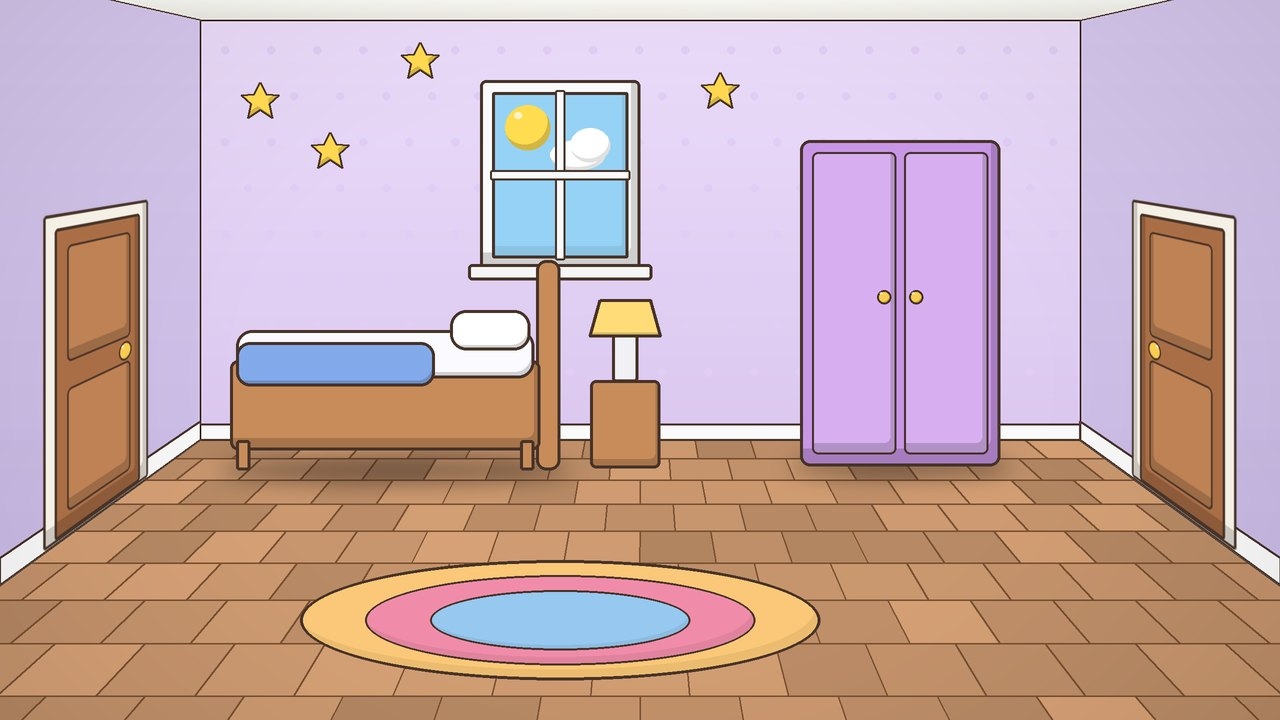
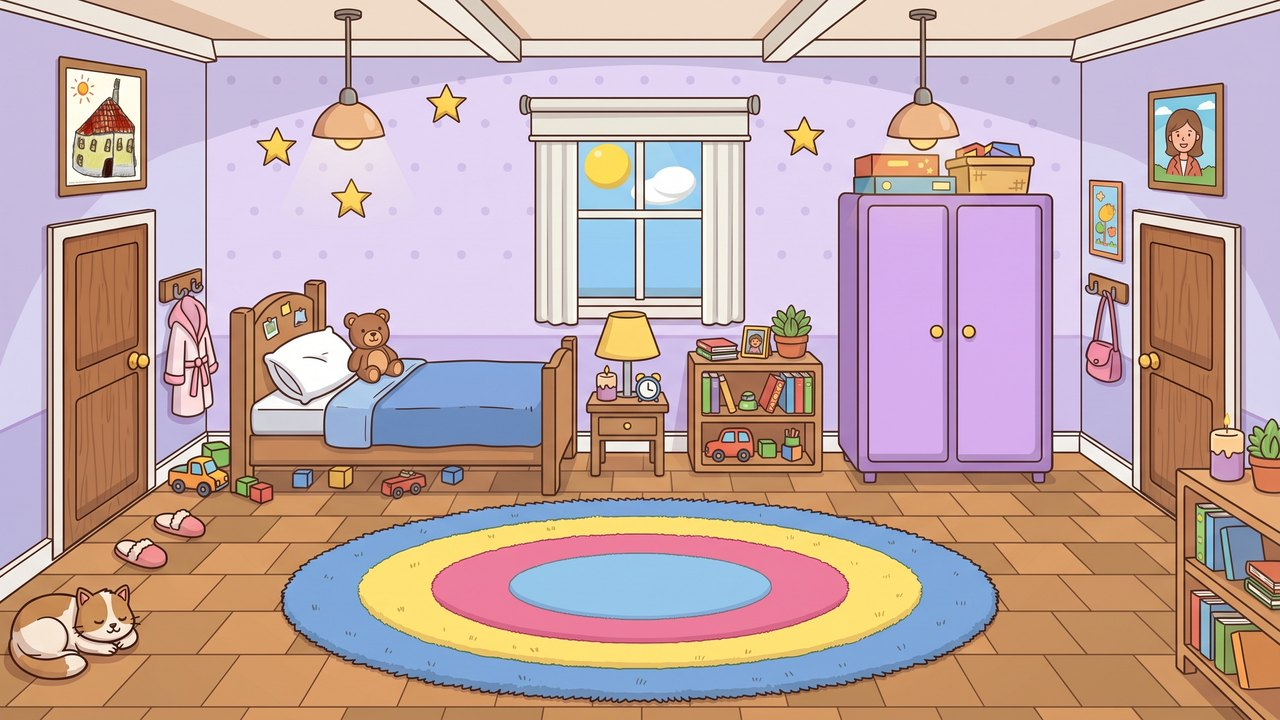
Yatak odası: yeni resim, yeni açık gardırop, yastığı solda olan yatak (yon: -1)
Claude-Session: https://claude.ai/code/session_01FSkVF6b9FMUcpnurV8yuFZ

diff --git a/js/veri.js b/js/veri.js
@@ -169,6 +169,7 @@ window.OYUN_VERI = {
   //     klozet: karakter oturur, beli piksel sansürle örtülür. Kalkınca sifon çekilir.
   //     otur: sandalye, kanepe, bank. Karakter bırakılınca oturur.
   //     yatak: karakter bırakılınca yatar ve uyur. yatis: ayak ucu. uzunluk: ayaktan yastığa. yorgan: üstünü örten örtü.
+  //            yon: -1 ise yastık soldadır (varsayılan 1, yastık sağda).
   //     salincak: karakter bırakılınca sallanır. asma: ipin bağlı olduğu nokta. ip: ipin boyu.
   //     kaydirak: karakter bırakılınca üstten alta kayar.
   //     tezgah: eşya bırakılınca üstüne konur. ust: eşyaların durduğu çizgi.
@@ -285,25 +286,26 @@ window.OYUN_VERI = {
       ad: "Yatak odası", simge: "ev", ev: "ev1",
       resim: "cizimler/mekan/yatak.jpg", zemin: ZEMIN, giris: GIRIS_SOL,
       kapilar: [
-        { ...KAPI_SOL, hedef: "banyo", giris: GIRIS_SAG },
-        { ...KAPI_SAG, hedef: "bahce1", giris: { x: 250, y: 590 } },
+        { x: 48, y: 210, w: 110, h: 345, hedef: "banyo", giris: GIRIS_SAG },
+        { x: 1130, y: 210, w: 112, h: 300, hedef: "bahce1", giris: { x: 250, y: 590 } },
       ],
       noktalar: [
-        { tur: "yatak", x: 220, y: 280, w: 350, h: 200, yatis: { x: 250, y: 318 }, uzunluk: 270, yorgan: { x: 236, y: 300, w: 190, h: 84 }, renk: [130, 170, 235] },
-        { tur: "lamba", x: 580, y: 290, w: 90, h: 95, isik: { x: 625, y: 318 } },
+        { tur: "yatak", x: 230, y: 280, w: 350, h: 210, yatis: { x: 535, y: 420 }, uzunluk: 250, yon: -1, yorgan: { x: 335, y: 378, w: 205, h: 66 }, renk: [108, 141, 194] },
+        { tur: "lamba", x: 585, y: 305, w: 85, h: 90, isik: { x: 627, y: 335 } },
         {
-          tur: "dolap", x: 800, y: 140, w: 200, h: 326,
-          resim: "cizimler/mekan/gardirop-acik.png", x0: 736, y0: 124,
+          tur: "dolap", x: 838, y: 192, w: 214, h: 288,
+          resim: "cizimler/mekan/gardirop-acik.png", x0: 796, y0: 190,
           raflar: [
             // sira: biri alınınca rafa sıradaki renk gelir.
-            { sablon: "sapka", x: 900, y: 205 },
-            { sablon: "elbise", sira: ["elbise", "elbise-mor"], x: 850, y: 360 },
-            { sablon: "tisort", sira: ["tisort", "tisort-sari", "tisort-yesil"], x: 950, y: 330 },
-            { sablon: "pantolon", sira: ["pantolon", "pantolon-pembe", "pantolon-kahve"], x: 900, y: 452 },
+            { sablon: "sapka", x: 953, y: 252 },
+            { sablon: "elbise", sira: ["elbise", "elbise-mor"], x: 908, y: 412 },
+            { sablon: "tisort", sira: ["tisort", "tisort-sari", "tisort-yesil"], x: 998, y: 378 },
+            { sablon: "pantolon", sira: ["pantolon", "pantolon-pembe", "pantolon-kahve"], x: 953, y: 456 },
           ],
         },
       ],
     },
+
     bahce1: {
       ad: "Bahçe", simge: "bahce", ev: "ev1",
       resim: "cizimler/mekan/bahce1.jpg", zemin: ZEMIN_ACIK, giris: GIRIS_SAG,

diff --git a/js/oyun.js b/js/oyun.js
@@ -395,7 +395,8 @@ k.scene("mekan", (mekanId) => {
     const s = olcek(o), ay = o.kok.pos.y;
     if (o.oturak && o.oturak.tur === "yatak") {
       const y = o.oturak.yatis;
-      return p.x > y.x - 20 && p.x < y.x + o.oturak.uzunluk && Math.abs(p.y - y.y) < 70;
+      const uc = y.x + (o.oturak.yon || 1) * o.oturak.uzunluk;
+      return p.x > Math.min(y.x, uc) - 20 && p.x < Math.max(y.x, uc) + 20 && Math.abs(p.y - y.y) < 70;
     }
     const alt = o.kuvet ? o.kuvet.kv.su + 10 : ay + 10;
     return Math.abs(p.x - o.kok.pos.x) < (o.kr.genislik * s) / 2 && p.y < alt && p.y > ay - o.kr.yukseklik * s;
@@ -1256,11 +1257,11 @@ k.scene("mekan", (mekanId) => {
         // Boyu yatağa sığar: ayaklar yatis noktasında, baş yastıkta. Yandan bakılınca ince görünür.
         const sy = n.uzunluk / o.kr.yukseklik;
         o.kok.pos = k.vec2(n.yatis.x, n.yatis.y);
-        o.kok.angle = 90;
+        o.kok.angle = 90 * (n.yon || 1); // yon -1: yastık solda
         o.kok.scale = k.vec2(sy * 0.55 * (1 + Math.sin(t * 1.8) * 0.03), sy);
         K.canlandir(o.kr, t, "uyu");
         o.uyku -= dt;
-        if (o.uyku <= 0) { o.uyku = 1.1; G.zzz(n.yatis.x + n.uzunluk * 0.95, n.yatis.y - 60); }
+        if (o.uyku <= 0) { o.uyku = 1.1; G.zzz(n.yatis.x + (n.yon || 1) * n.uzunluk * 0.95, n.yatis.y - 60); }
         return;
       }
       const bas = 0.85;
@@ -1333,7 +1334,7 @@ k.scene("mekan", (mekanId) => {
       const s = olcek(secili);
       const yatiyor = secili.oturak && secili.oturak.tur === "yatak";
       const ust = yatiyor ? secili.kok.pos.y - 60 : secili.kok.pos.y - secili.kr.yukseklik * s * (secili.oturak || secili.kayiyor ? 0.85 : 1);
-      const x = yatiyor ? secili.kok.pos.x + secili.oturak.uzunluk * 0.5 : secili.kok.pos.x;
+      const x = yatiyor ? secili.kok.pos.x + (secili.oturak.yon || 1) * secili.oturak.uzunluk * 0.5 : secili.kok.pos.x;
       isaret.pos = k.vec2(x, ust - 18 + Math.sin(t * 4) * 5);
       isaret.scale = k.vec2(harita ? 0.8 : 1);
     }
